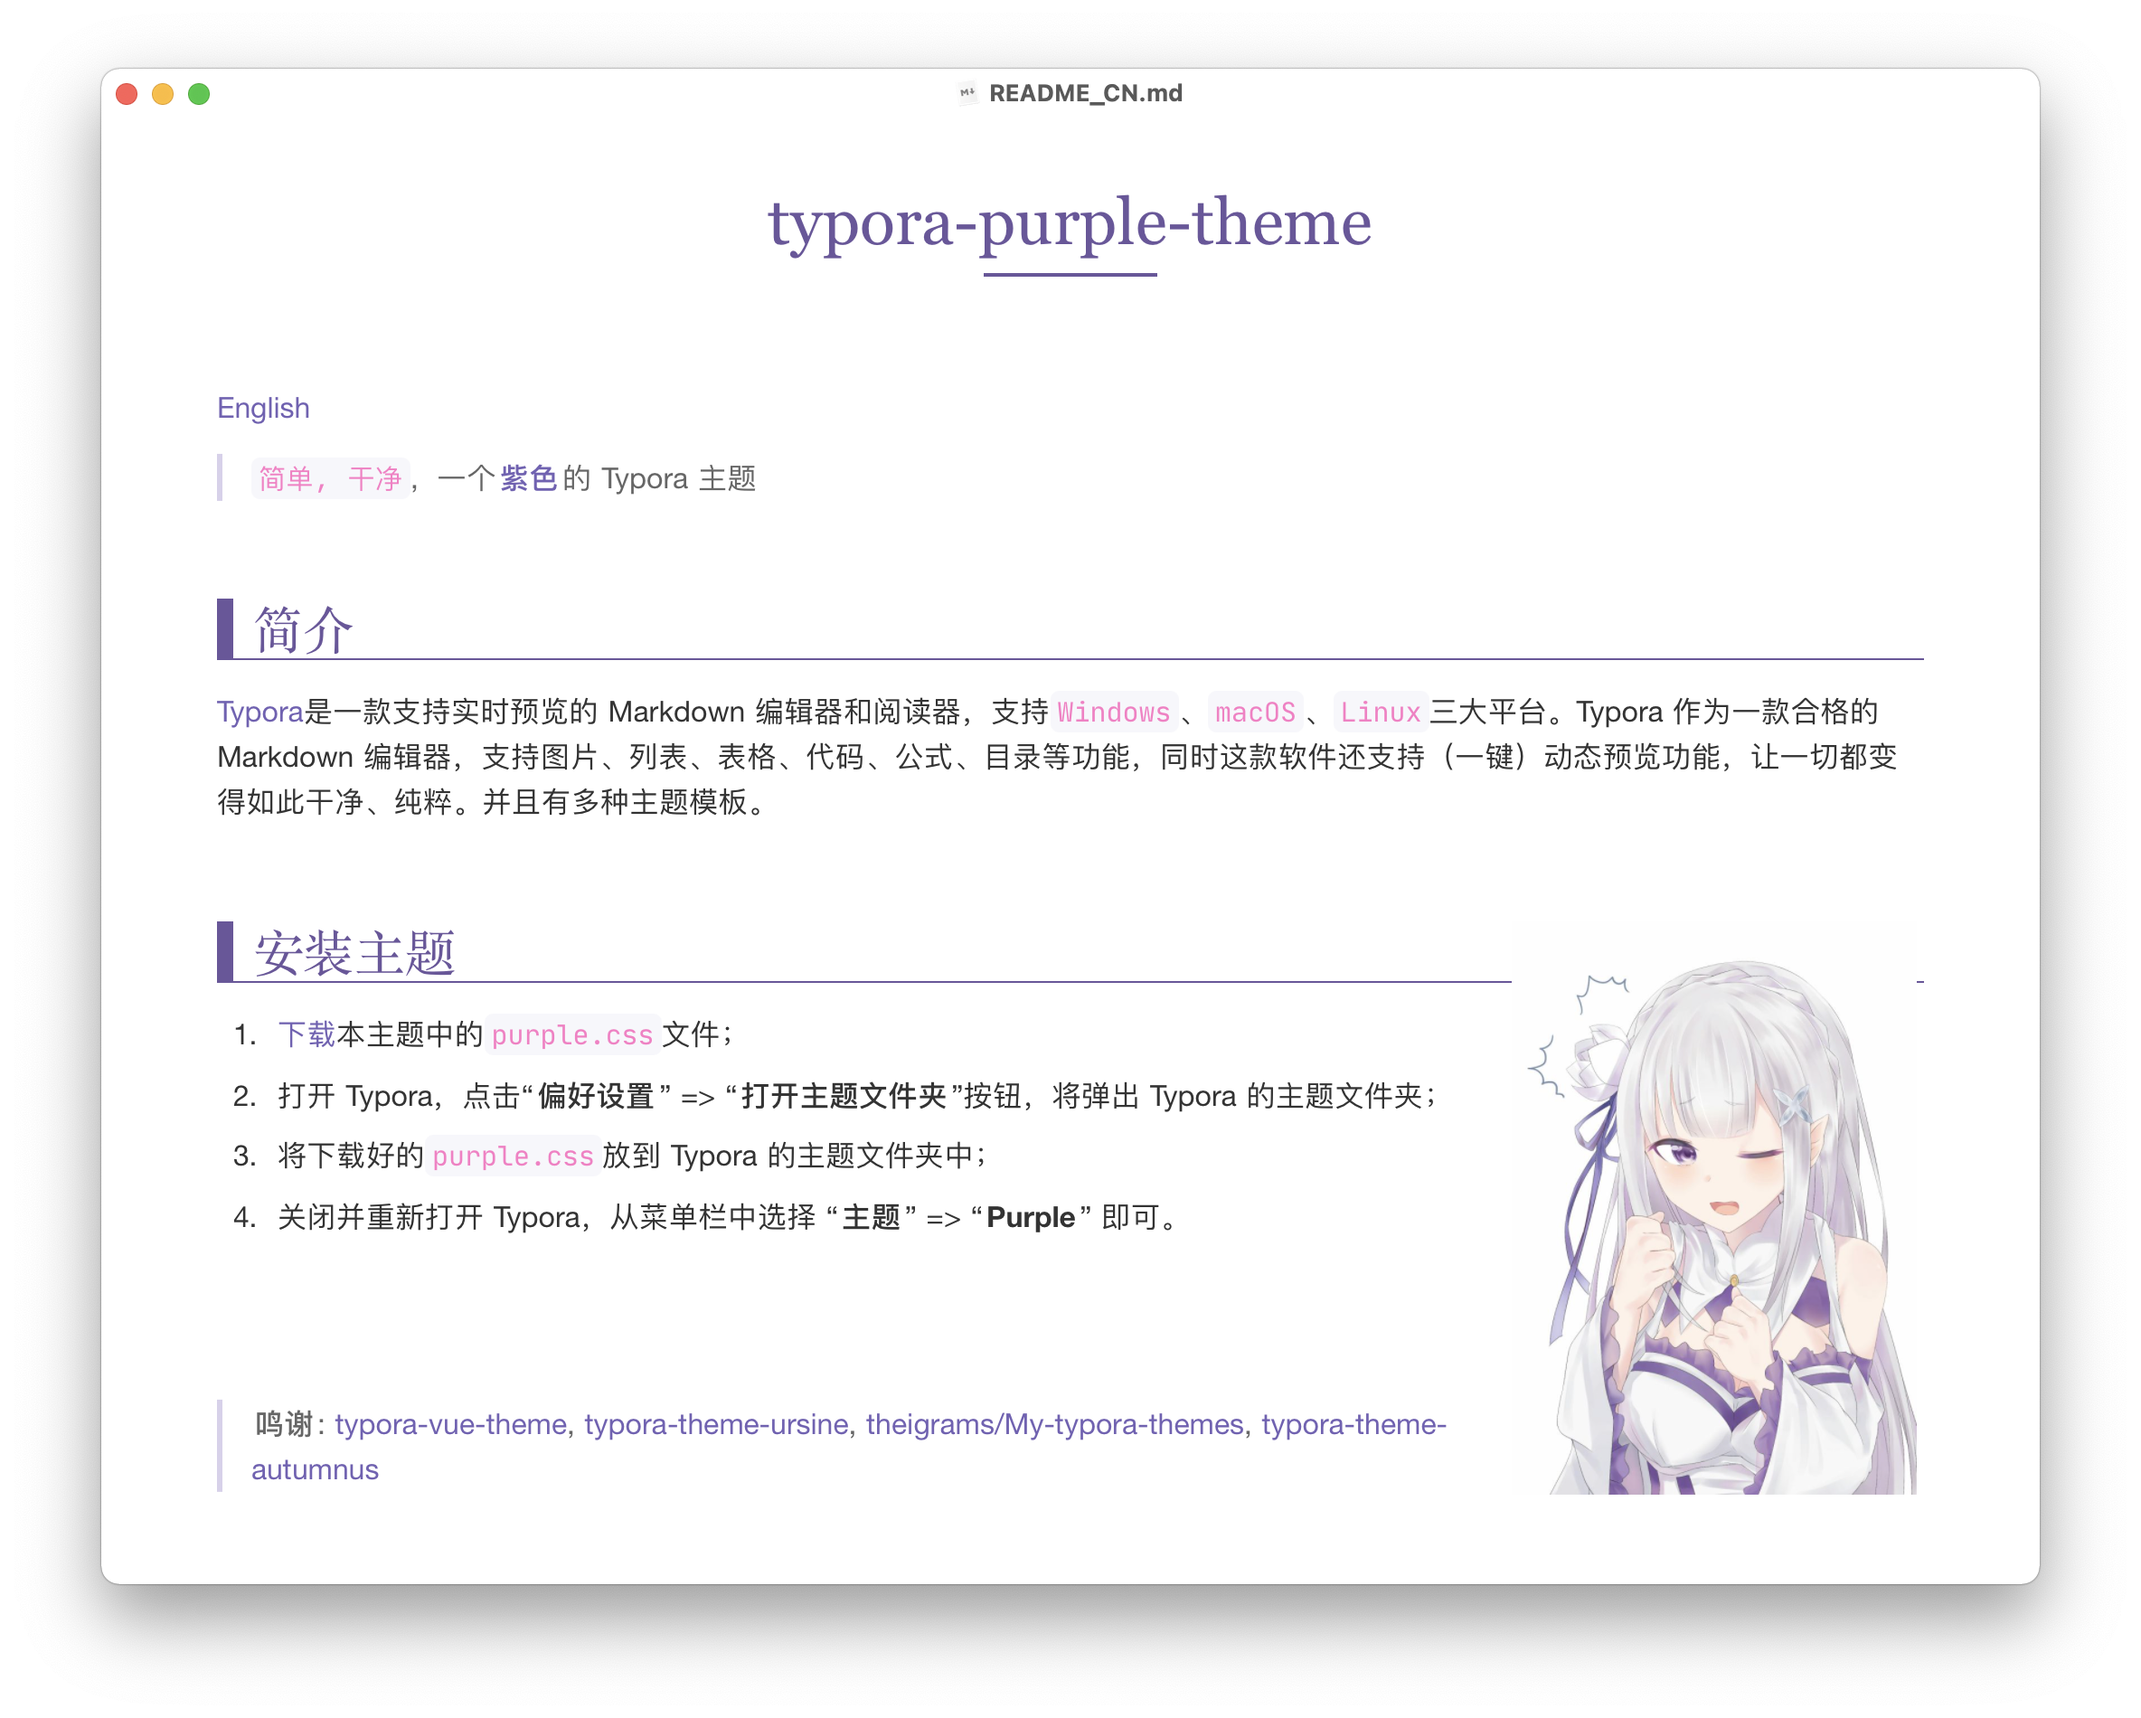
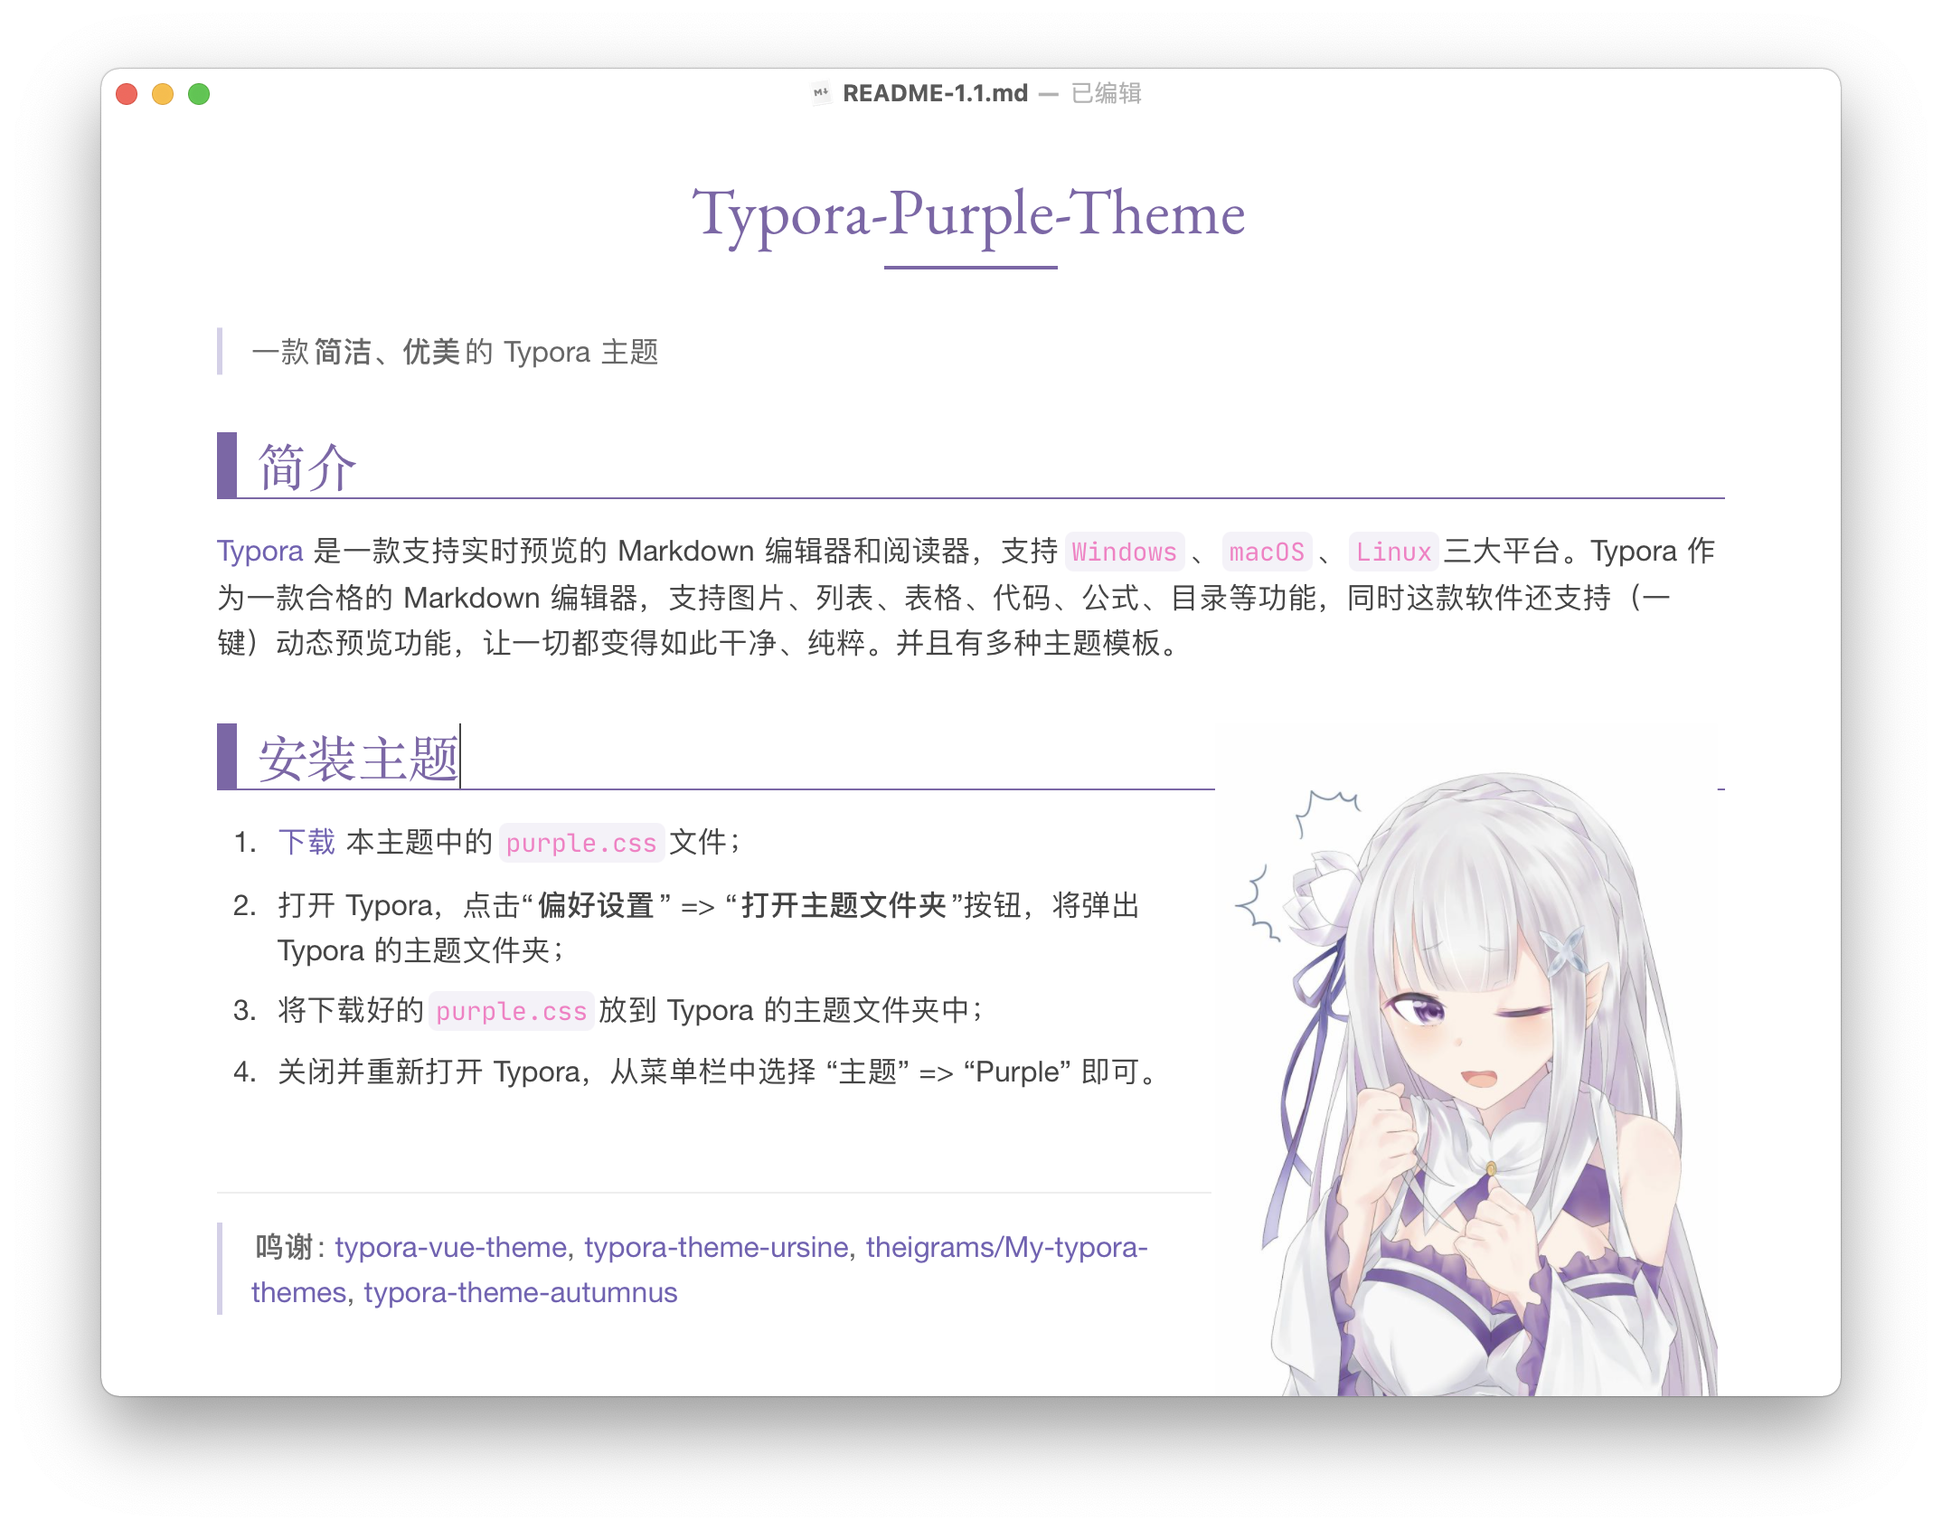
简化代码，增加样式，readme

diff --git a/purple.css b/purple.css
@@ -1,29 +1,21 @@
 :root {
-  --control-text-color: #777;
-  --select-text-bg-color: #ebe1f5;
-  --search-select-bg-color: #8163bd;
-
-  --title-color:#8064a9;
+  --title-color: #8064a9;
   --text-color: #444444;
   --light-text-color: #666666;
-
   --link-color: #2aa899;
   --code-color: #745fb5;
-  --purple-light-1: rgba(116, 95, 181, 0.05);
-  --purple-light-2: rgba(116, 95, 181, 0.1);
-  --purple-light-3: rgba(116, 95, 181, 0.3);
-  --purple-light-4: rgba(116, 95, 181, 0.7);
-  --purple-light-5: rgba(116, 95, 181, 0.8);
+
+  --shadow-color: rgba(116, 95, 181, 0.1);
+  --purple-light: rgba(116, 95, 181, 0.3);
   --border: #eee;
+  --shadow: 0rem 0.2rem 0.4rem var(--shadow-color);
 
-  --shadow: 0rem 0.2rem 0.4rem var(--purple-light-2);
-
-  /* side bar */
-  --side-bar-bg-color: #f7f7fb;
+  --side-bar-bg-color: #fafafa;
+  --control-text-color: var(var(--light-text-color));
   --active-file-text-color: var(--title-color);
-  --active-file-bg-color: var(--purple-light-2);
-  --item-hover-bg-color: var(--purple-light-2);
-  --active-file-border-color: var(--purple-light-4);
+  --active-file-bg-color: var(--shadow-color);
+  --item-hover-bg-color: var(--shadow-color);
+  --active-file-border-color: var(var(--title-color));
 
   --base-font: "Helvetica Neue", "Noto Sans", -apple-system, Ubuntu,
     "Microsoft YaHei", Helvetica, "Nimbus Sans L", Arial, "Liberation Sans",
@@ -41,13 +33,25 @@
     "Roboto Mono", Courier, Monospace !important;
 }
 
-/* PDF打印：A3 */
+/* 打印 */
 @media print {
+  html {
+    font-size: 0.9rem;
+  }
+
+  table,
+  pre {
+    page-break-inside: avoid;
+  }
+
+  pre {
+    word-wrap: break-word;
+  }
   #write {
     max-width: 100%;
   }
   @page {
-    size: A4; /* A3 */
+    size: A4; /* PDF A4 */
     margin-left: 0;
     margin-right: 0;
   }
@@ -104,7 +108,7 @@ a {
   text-decoration: none;
 }
 .md-content {
-  color: #777;
+  color: var(--light-text-color);
 }
 
 h1,
@@ -204,14 +208,13 @@ ul li {
 
 /* 引用 */
 blockquote {
-  border-left: 0.2em solid var(--purple-light-3);
+  border-left: 0.2em solid var(--purple-light);
   padding-left: 1em;
   color: var(--light-text-color);
   font-family: var(--base-font);
 }
 
 /* 表格 */
-
 table {
   margin-bottom: 1.25rem;
 }
@@ -228,10 +231,6 @@ table th {
 table thead th {
   vertical-align: middle;
 }
-
-/* 表格 背景色 */
-
-/* 表格 背景色 */
 table tr:nth-child(2n),
 thead {
   background-color: #fcfcfc;
@@ -252,9 +251,6 @@ tt {
   font-size: 0.9rem;
   color: var(--code-color);
   background-color: #f4f2f9;
-}
-
-tt {
   margin: 0 2px;
 }
 
@@ -278,21 +274,6 @@ tt {
 
 .md-task-list-item > input {
   margin-left: -1.3em;
-}
-
-@media print {
-  html {
-    font-size: 0.9rem;
-  }
-
-  table,
-  pre {
-    page-break-inside: avoid;
-  }
-
-  pre {
-    word-wrap: break-word;
-  }
 }
 
 #write pre.md-meta-block {
@@ -327,7 +308,7 @@ tt {
 
 /* 写![shadow-...]() 显示图片阴影 */
 img[alt|="shadow"] {
-  box-shadow: 0rem 0.4rem 0.8rem var(--purple-light-2);
+  box-shadow: 0rem 0.4rem 0.8rem var(--shadow-color);
 }
 
 #write a.md-toc-inner {
@@ -356,9 +337,6 @@ footer {
 .html-for-mac .context-menu {
   --item-hover-bg-color: #e6f0fe;
 }
-
-/* 代码框 */
-/* CodeMirror 3024 Day theme */
 
 /* 代码段 背景 */
 pre {
@@ -403,11 +381,11 @@ pre {
 .cm-s-inner .CodeMirror-line > span::-moz-selection,
 .cm-s-inner .CodeMirror-line > span > span::selection,
 .cm-s-inner .CodeMirror-line > span > span::-moz-selection {
-  background: var(--purple-light-1);
+  background: var(--shadow-color);
 }
 
 .md-fences.md-focus .cm-s-inner .CodeMirror-activeline-background {
-  background: var(--purple-light-1);
+  background: var(--shadow-color);
 }
 
 .cm-s-inner .CodeMirror-matchingbracket {
@@ -501,70 +479,11 @@ pre {
   opacity: 0.6;
 }
 
-/* sidebar and outline */
-.pin-outline .outline-active {
-  color: var(--active-file-text-color);
-}
-
+/* sidebar */
 #typora-sidebar,
 .typora-node #typora-sidebar {
-  box-shadow: 3px 0px 10px var(--purple-light-2);
+  box-shadow: 3px 0px 10px var(--shadow-color);
 }
-
-.file-list-item {
-  border-bottom: 1px solid;
-  border-color: var(--purple-light-2);
-}
-
-.file-list-item-summary {
-  font-weight: normal;
-}
-
-.file-list-item.active {
-  color: var(--active-file-text-color);
-  background-color: var(--purple-light-2);
-}
-
-.file-tree-node.active > .file-node-background {
-  background-color: var(--purple-light-2);
-  font-weight: normal;
-}
-
-.file-tree-node.active > .file-node-content {
-  color: var(--active-file-text-color);
-  font-weight: normal;
-}
-
-.sidebar-tabs {
-  border-bottom: none;
-}
-.sidebar-tab.active {
-  font-weight: normal;
-}
-.info-panel-tab-border {
-  color: var(--purple-light-4);
-}
-
 .sidebar-content-content {
   font-size: 0.9rem;
-}
-
-/* 搜索 */
-.ty-file-search-match-text {
-  background-color: var(--purple-light-3);
-}
-.md-search-hit {
-  background-color: var(--purple-light-3);
-  contain: style;
-}
-
-element.style {
-  width: calc(100% - 18px);
-}
-#file-library-search-input:focus {
-  border-color: var(--purple-light-3);
-}
-.code-tooltip .ty-input:focus,
-input:focus {
-  border-color: var(--purple-light-3);
 }

diff --git a/purple-blue.css b/purple-blue.css
@@ -2,8 +2,8 @@
 
 :root {
   --title-color: #444444;
-  --link-color: #444444;
-  --code-color: #222222;
+  --link-color: #337ab7;
+  --code-color: #0072be;
 }
 
 blockquote {
@@ -18,9 +18,4 @@ h5,
 h6 {
   font-weight: bold;
   color: var(--text-color);
-}
-
-/* 链接 */
-#write a {
-  border-bottom: 1px solid #bbb;
 }

diff --git a/purple-green.css b/purple-green.css
@@ -2,8 +2,8 @@
 
 :root {
   --title-color: #444444;
-  --link-color: #444444;
-  --code-color: #222222;
+  --link-color: #2aa899;
+  --code-color: #2aa899;
 }
 
 blockquote {
@@ -18,9 +18,4 @@ h5,
 h6 {
   font-weight: bold;
   color: var(--text-color);
-}
-
-/* 链接 */
-#write a {
-  border-bottom: 1px solid #bbb;
 }

diff --git a/purple-classic.css b/purple-classic.css
@@ -1,0 +1,6 @@
+@import "./purple.css";
+
+:root {
+  --link-color: #745fb5;
+  --code-color: #ff79c6;
+}

diff --git a/README.md b/README.md
@@ -2,13 +2,23 @@
 
 ## 主题介绍
 
-[purple.css](purple.css) 是紫色调：
+`purple.css` 和 `purple-classic.css` 是2 种紫色调：
+
+![purple.css](./ScreenShots/0.png)
 
 ![purple.css](./ScreenShots/1.png)
 
-[purple-plain.css](purple-plain.css) 是 ~~黑长直~~ 黑色调
+`purple-plain.css` 是 ~~黑长直~~ 简约黑色调
 
 ![purple-plain.css](./ScreenShots/2.png)
+
+`purple-blue.css` 是 ~~女仆~~ 简约蓝色调
+
+![](./ScreenShots/3.png)
+
+`purple-green.css` 是 ~~大葱~~ 简约绿色调
+
+![](./ScreenShots/4.png)
 
 ## 关于字体
 
@@ -16,16 +26,6 @@
 2. 正文使用非衬线(Sans)字体，比如：Mac/Ubuntu/Windows 系统字体，[Helvetica Neue](https://freefontsdownload.net/free-helveticaneue-font-74318.htm)等
 3. 代码使用等宽字体，比如：[JetBrains Mono](https://www.jetbrains.com/lp/mono/)
 
-## 更多效果：
+## 关于自定义
 
-![3](./ScreenShots/3.png)
-
-![4](./ScreenShots/4.png)
-
-![5](./ScreenShots/5.png)
-
-![6](./ScreenShots/6.png)
-
-![7](./ScreenShots/7.png)
-
-![8](./ScreenShots/8.png)
+可以很容易自定义喜欢的色调，只需要 copy 任一 `purpe-xxx.css`，在其中修改或添加配置即可
